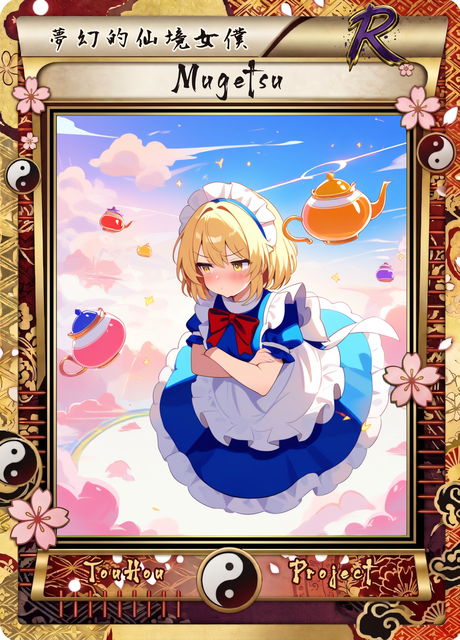
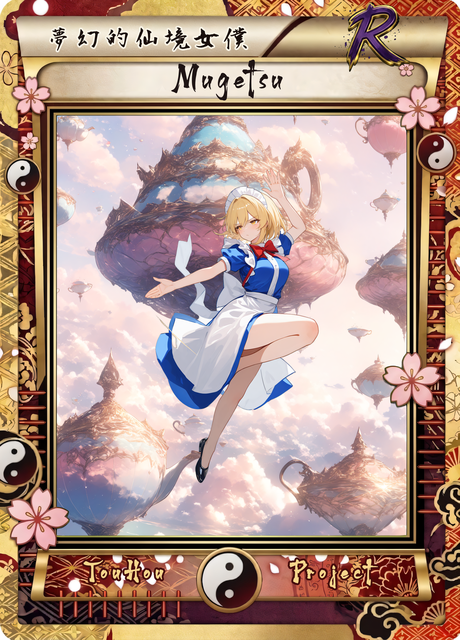
feat: 0.34.010 夢月 N / R / SR 卡面

diff --git a/tools/card_art/layered/hd_card.py b/tools/card_art/layered/hd_card.py
@@ -1121,6 +1121,53 @@ LAYERS = {
                           "danmaku, bullets, magic circle, beam, energy ball, aura, mist, multiple girls"),
         "char_scale": 0.8,
     },
+    # 夢月 N / R / SR (TH04 舊卡重生)：外觀沿用 make_workflow.BASE["mugetsu"] (萌娘百科：齊頸金色鮑伯短髮、黃瞳、女僕頭飾、
+    # 粉藍女僕裝 + 白圍裙、大紅蝴蝶結；沒有翅膀)；EXTRA_NEGATIVE["mugetsu"] 已擋翅膀 / 幻月 / 長髮 / 微笑 (撲克臉)
+    # 個性：冷靜的撲克臉女僕，其實比姊姊還強；N～SR 沒有彈幕 (舊 SCENES 的白藍彈幕拿掉)；全部站姿 / 浮空，不要坐姿
+    ("mugetsu", "N"): {
+        # N「夢幻館的女僕」：日常 ── 撲克臉端著銀托盤送上冰淇淋聖代 (主題曲 Icemilk Magic)，站在夢幻館的洋館餐廳裡
+        # 背景 = 洋館內的餐廳 (長桌、白桌布、茶具、甜點架、大窗戶灑進陽光、吊燈)；平視、白天柔光
+        "bg": ("no humans, scenery, eye level, western mansion interior, elegant dining room, long table, white tablecloth, "
+               "tea set, cake stand, desserts on the table, large arched windows, sunlight through windows, chandelier, "
+               "curtains, daylight, soft lighting, peaceful, highly detailed"),
+        "bg_negative": "1girl, person, human, character, face, text, watermark, lowres, worst quality, low quality, blurry, frame, border, night, dark",
+        "char": ("standing, expressionless, poker face, half-closed eyes, holding a silver tray with one hand, ice cream sundae on tray, "
+                 "parfait glass, other hand at side, elegant posture, three-quarter view, from side, full body"),
+        "char_negative": ("cleavage, revealing clothes, short dress, skirt lift, upskirt, panties, sitting, chair, table, "
+                          "multiple trays, danmaku, magic circle"),
+        "char_scale": 0.7,   # 日常卡人物小一點融入背景
+        "offset": (0.0, 0.1),   # 往下一點，腳踩到地板
+    },
+    ("mugetsu", "R"): {
+        # R「夢幻的仙境女僕」：有動作 ── 在夢幻世界的空中輕飄飄浮著，一手揮動讓茶具飛起來 (支配夢境的能力)，
+        # 冷淡地撇頭、微微臉紅 (對姊姊的傲嬌)；裙擺、圍裙被風吹起
+        # 背景 = 夢幻世界：粉彩天空、棉花雲、浮空小島、飄在空中的茶杯 / 茶壺 / 蛋糕 (飄浮物只放背景，人物層不要畫)、閃光點點
+        "bg": ("no humans, scenery, dream world, pastel sky, pink and blue sky, fluffy clouds, floating islands, "
+               "floating teacups, floating teapot, floating cakes and sweets in the air, sparkles, "
+               "daylight, soft lighting, whimsical, fantasy, highly detailed"),
+        "bg_negative": "1girl, person, human, character, face, text, watermark, lowres, worst quality, low quality, blurry, frame, border, night, dark",
+        "char": ("floating, mid-air, one arm extended, waving hand, casting magic, looking away, turning head, "
+                 "slight blush, annoyed, expressionless, apron fluttering, dress fluttering in the wind, hair swaying, "
+                 "dynamic pose, three-quarter view, full body"),
+        "char_negative": ("cleavage, revealing clothes, short dress, skirt lift, upskirt, panties, sitting, "
+                          "teacup, teapot, cake, tray, danmaku, magic circle, wings"),
+        "char_scale": 0.75,
+    },
+    ("mugetsu", "SR"): {
+        # SR「惡夢之女補佐」：有氣勢 ── 「惡夢侵蝕」的起手：浮在崩壞的夢幻世界上空，面無表情、冷冽俯視、眼睛發光，
+        # 單手往前抬起；原作攻擊前身上閃乳白色光芒 ➔ 光放背景 (去背會切掉)，人物不畫光環；微仰視
+        # 背景 = 被惡夢侵蝕的夢幻世界：碎裂的天空、深藍與紫色的漩渦雲、崩落的浮空島、遠方洋館剪影、乳白色光線 (沒有彈幕)
+        "bg": ("no humans, scenery, slightly from below, nightmare, distorted dream world, cracked sky, shattered sky, "
+               "swirling dark blue and violet clouds, crumbling floating islands, floating rubble, western mansion silhouette in the distance, "
+               "milky white light rays, glowing white light, bloom, epic, ominous, majestic, highly detailed, intricate details"),
+        "bg_negative": "1girl, person, human, character, face, text, watermark, lowres, worst quality, low quality, blurry, frame, border, danmaku, bullets",
+        "char": ("floating, from below, expressionless, cold eyes, glowing eyes, looking down at viewer, arm outstretched toward viewer, one hand raised forward, open palm, "
+                 "other arm at side, calm, intimidating, hair flowing, apron fluttering, dress fluttering in the wind, "
+                 "dynamic angle, full body"),
+        "char_negative": ("cleavage, revealing clothes, short dress, skirt lift, upskirt, panties, sitting, "
+                          "danmaku, bullets, magic circle, aura, energy ball, beam, wings, smile, swirl, wind effect, ribbon, halo, chair"),
+        "char_scale": 0.8,
+    },
 }
 
 

diff --git a/Utils/version.py b/Utils/version.py
@@ -6,4 +6,4 @@
 
 每次 commit 都要更新這裡和 CHANGELOG.md。
 """
-VERSION = "0.34.009"
+VERSION = "0.34.010"

diff --git a/CHANGELOG.md b/CHANGELOG.md
@@ -13,6 +13,11 @@
 
 ---
 
+## 0.34.010 — 2026-11-16：夢月 N / R / SR 卡面
+- 高清分層 (筆電)：N「夢幻館的女僕」B2C4 (洋館餐廳端聖代)、R「夢幻的仙境女僕」B1C1 (茶壺浮島雲海)、SR「惡夢之女補佐」B2C1 (崩壞城堡、眼睛發光)。N～SR 沒有彈幕。
+- N 圍裙上生出一塊紅色亂碼字 ➔ 在 `10c_char_photocraft.png` 用左右兩側的圍裙顏色逐列內插塗白 (避開手)；cv2.inpaint 會把粉紅色抹開，不適合大面積色塊。
+- SR 第一輪人物都不理想 (像坐在空中、身邊有白色漩渦 / 光環) ➔ 提示詞加 `arm outstretched toward viewer`，負面加 `swirl, wind effect, ribbon, halo, chair`，換種子重生。
+
 ## 0.34.009 — 2026-11-15：愛麗絲 (舊作) 角色名片「布偶堆裡的魔導書」(桌機)
 - **🖼 愛麗絲**：魔界的寢室裡埋在布偶熊堆中，臉趴在魔導書上睡著，四周有發光星星和油燈 (使用者選第 3 張)。造型用舊作 (齊肩金髮、藍緞帶、粉紅連衣裙 + 藍圍裙)，負面提示詞擋新作愛麗絲。顯示用 `alice.jpg`、說明已加上；原圖 `alice_full.jpg` 1.1MB + `alice.png` 7.1MB 傳到私人頻道。
 

diff --git a/TODO.md b/TODO.md
@@ -31,7 +31,7 @@
 | TH03 | 夢美 yumemi | R / SR / SSR | ✅ 0.31.009 (三張都使用者 PhotoCraft 手修) |
 | TH04 | 艾莉 elly | N / R / SR | ✅ 0.34.001 (N 人物往下移，腳踩到石板路) |
 | TH04 | 幻月 gengetsu | R / SR / SSR | ✅ 0.34.006 (人物直接帶翅膀；SR / SSR 翅膀補邊) |
-| TH04 | 夢月 mugetsu | N / R / SR | 全部重生 |
+| TH04 | 夢月 mugetsu | N / R / SR | ✅ 0.34.010 (N 圍裙紅色亂碼塗白；SR 人物重生一輪) |
 | TH05 | 愛麗絲 alice | SR / SSR / UR | 全部重生 (舊作外觀) |
 | TH05 | 露易絲 luize | N / R / SR | ✅ 0.30.015 (桌機) |
 | TH05 | 神綺 shinki | SSR / UR / LR | LR 已是分層 (同上)；SSR、UR 重生 (UR 構圖要跟 LR 拉開) |
